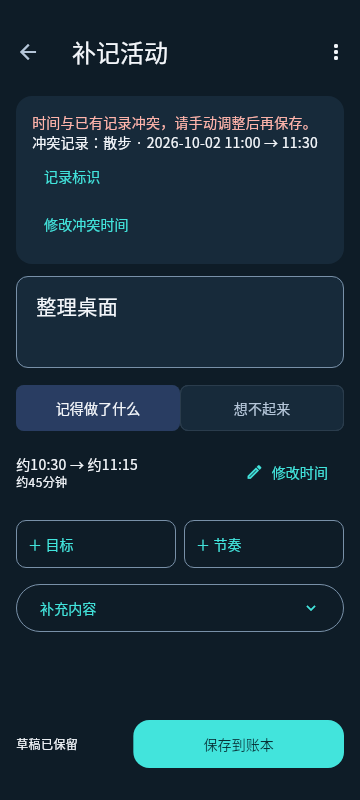
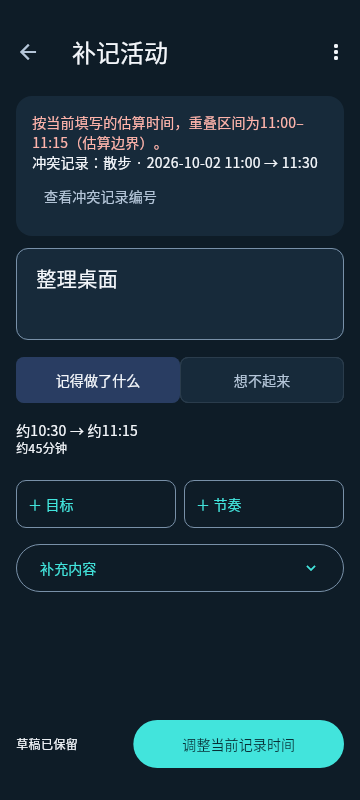
fix(ui): clarify V06 conflict recovery action and overlap

diff --git a/lib/features/ledger/presentation/recording_form.dart b/lib/features/ledger/presentation/recording_form.dart
@@ -622,12 +622,16 @@ class _RecordingFormState extends State<RecordingForm> {
                 ? '更正草稿已保留，原记录尚未改变。'
                 : '输入作为草稿保留，尚未计入账本。',
           ),
-        if (model.submitError != null)
+        if (model.submitError != null && model.conflicts.isEmpty)
           Text(
             model.submitError!,
             style: TextStyle(color: Theme.of(context).colorScheme.error),
           ),
         for (final conflict in model.conflicts) ...[
+          Text(
+            '按当前填写的${model.time.startPrecision == TimePrecision.approximate || model.time.endPrecision == TimePrecision.approximate ? '估算' : ''}时间，${_overlap(conflict)}',
+            style: TextStyle(color: Theme.of(context).colorScheme.error),
+          ),
           FutureBuilder<String>(
             key: ValueKey(conflict),
             future: conflictLabels.putIfAbsent(
@@ -642,7 +646,7 @@ class _RecordingFormState extends State<RecordingForm> {
             onPressed: () => showDialog<void>(
               context: context,
               builder: (context) => AlertDialog(
-                title: const Text('记录标识'),
+                title: const Text('冲突记录的技术编号'),
                 content: SelectableText('标识：${conflict.reference.id}'),
                 actions: [
                   TextButton(
@@ -652,22 +656,10 @@ class _RecordingFormState extends State<RecordingForm> {
                 ],
               ),
             ),
-            child: const Text('记录标识'),
-          ),
-          TextButton(
-            onPressed: model.editable
-                ? () async {
-                    setState(() => timeExpanded = true);
-                    await WidgetsBinding.instance.endOfFrame;
-                    if (mounted && timeKey.currentContext != null) {
-                      await Scrollable.ensureVisible(
-                        timeKey.currentContext!,
-                        alignment: .1,
-                      );
-                    }
-                  }
-                : null,
-            child: const Text('修改冲突时间'),
+            style: TextButton.styleFrom(
+              foregroundColor: Theme.of(context).colorScheme.onSurfaceVariant,
+            ),
+            child: const Text('查看冲突记录编号'),
           ),
         ],
         if (model.committed case final committed?) ...[
@@ -733,6 +725,42 @@ class _RecordingFormState extends State<RecordingForm> {
     return '${approximate ? '约' : ''}${minutes >= 60 ? '${minutes ~/ 60}小时' : ''}${minutes % 60 != 0 || minutes == 0 ? '${minutes % 60}分钟' : ''}';
   }
 
+  String _overlap(LedgerFactInterval conflict) {
+    final start = model.time.startedAt! > conflict.startedAt
+        ? model.time.startedAt!
+        : conflict.startedAt;
+    final end = model.time.endedAt! < conflict.endedAt
+        ? model.time.endedAt!
+        : conflict.endedAt;
+    final approximate =
+        model.time.startPrecision == TimePrecision.approximate ||
+        model.time.endPrecision == TimePrecision.approximate;
+    return '重叠区间为${_shortTime(start)}–${_shortTime(end)}${approximate ? '（估算边界）' : ''}。';
+  }
+
+  Future<void> _editCurrentTime() async {
+    FocusManager.instance.primaryFocus?.unfocus();
+    final result = await Navigator.of(context).push<EditorTimes>(
+      MaterialPageRoute(
+        builder: (_) => EditorTimePage(
+          date: widget.context.date,
+          initial: (
+            start: formatSleepTime(model.time.startedAt),
+            end: formatSleepTime(model.time.endedAt),
+            startPrecision: model.time.startPrecision,
+            endPrecision: model.time.endPrecision,
+          ),
+        ),
+      ),
+    );
+    if (!mounted || result == null) return;
+    model.setTime(
+      start: parseSleepTime(result.start),
+      end: parseSleepTime(result.end),
+    );
+    model.setPrecision(start: result.startPrecision, end: result.endPrecision);
+  }
+
   Widget _timeSection(BuildContext context) {
     final error = (showErrors || timeVisited) ? model.timeError : null;
     final expanded = timeExpanded || model.timeError != null;
@@ -758,7 +786,9 @@ class _RecordingFormState extends State<RecordingForm> {
                 ],
               ),
             ),
-            if (model.time.startedAt != null && model.time.endedAt != null)
+            if (model.conflicts.isEmpty &&
+                model.time.startedAt != null &&
+                model.time.endedAt != null)
               TextButton.icon(
                 key: const ValueKey('edit-recording-time'),
                 onPressed: model.editable
@@ -1068,7 +1098,12 @@ class _RecordingFormState extends State<RecordingForm> {
     ],
   );
 
-  Widget _saveAction() => model.committed == null
+  Widget _saveAction() => model.conflicts.isNotEmpty
+      ? FilledButton(
+          onPressed: model.editable ? _editCurrentTime : null,
+          child: const Text('调整当前记录时间'),
+        )
+      : model.committed == null
       ? FilledButton(
           key: const ValueKey('recording-submit'),
           style: FilledButton.styleFrom(

diff --git a/test/features/ledger/presentation/recording_form_layout_test.dart b/test/features/ledger/presentation/recording_form_layout_test.dart
@@ -451,11 +451,11 @@ void main() {
         await support.textTap(t, '保存到账本');
         expect(find.textContaining('冲突记录：睡眠'), findsOneWidget);
         expect(find.text('标识：${support.id(20)}'), findsNothing);
-        await support.textTap(t, '记录标识');
+        await support.textTap(t, '查看冲突记录编号');
         expect(find.text('标识：${support.id(20)}'), findsOneWidget);
         await support.textTap(t, '关闭');
         await capture(t, 'failure-conflict');
-        await support.textTap(t, '修改冲突时间');
+        await support.textTap(t, '调整当前记录时间');
         expect(find.text('开始时间'), findsOneWidget);
         expect(model(t).time.startPrecision, TimePrecision.approximate);
 

diff --git a/test/features/ledger/presentation/recording_form_test.dart b/test/features/ledger/presentation/recording_form_test.dart
@@ -347,9 +347,9 @@ void main() {
     await enterTime(tester, '开始时间', '2026-09-28 10:00');
     await enterTime(tester, '结束时间', '2026-09-28 11:00');
     await tap(tester, '保存到账本');
-    expect(find.text('时间与已有记录冲突，请手动调整后再保存。'), findsOneWidget);
+    expect(find.textContaining('重叠区间为'), findsOneWidget);
     expect(find.textContaining(sleepId), findsNothing);
-    await tester.tap(find.text('记录标识'));
+    await tester.tap(find.text('查看冲突记录编号'));
     await tester.pumpAndSettle();
     expect(find.textContaining(sleepId), findsOneWidget);
     await tester.tap(find.text('关闭'));

diff --git a/test/features/ledger/presentation/recording_rhythm_test.dart b/test/features/ledger/presentation/recording_rhythm_test.dart
@@ -628,8 +628,9 @@ void main() {
       await textTap(t, '确认');
       await textTap(t, '应用时间');
       await textTap(t, '保存更正');
-      expect(find.text('时间与已有记录冲突，请手动调整后再保存。'), findsOneWidget);
+      expect(find.textContaining('重叠区间为'), findsOneWidget);
       expect(await t.runAsync(f.snapshot), before);
+      await textTap(t, '调整当前记录时间');
       await textTap(t, '结束时间');
       await enter(t, 'time-dialog-input', '2026-10-01 11:00');
       await textTap(t, '确认');

diff --git a/test/app/page_t01_visual_fixture_test.dart b/test/app/page_t01_visual_fixture_test.dart
@@ -193,7 +193,10 @@ void main() {
     t.testTextInput.hide();
     await settle(t);
     await capture(t, 'V06');
-    await tap(t, '修改时间');
+    expect(find.text('保存到账本'), findsNothing);
+    expect(find.text('修改时间'), findsNothing);
+    expect(find.textContaining('11:00–11:15'), findsOneWidget);
+    await tap(t, '调整当前记录时间');
     await tap(t, '手动输入日期与时间');
     await t.ensureVisible(find.byKey(const ValueKey('time-end')));
     await t.enterText(

diff --git a/docs/reports/PAGE_T02_REPORT.md b/docs/reports/PAGE_T02_REPORT.md
@@ -1,5 +1,11 @@
 # PAGE-T02 · 活动编辑返工
 
+## V06用户反馈修订
+
+后续用户提供交互评审并授权吸纳。冲突时底部主动作改为“调整当前记录时间”，不再显示可提交的保存按钮；顶部与时间摘要的重复调整入口移除。统一进入双端时间层，取消保留冲突，应用后重新允许正式校验。冲突提示直接给出交集区间，近似输入明确为“按当前填写的估算时间”和“估算边界”，不改原子拒绝合同、不提供强制覆盖。“记录标识”改为低强调的“查看冲突记录编号”，详情明确技术编号用途。V06截图已更新，下文旧差异描述属于首轮记录。
+
+修订验证：夹具、布局、表单与节奏共48项在最终对应运行中通过（初次运行46通过、2条旧文案断言失败，迁移后分别复跑；节奏旧时间入口亦改为明确调整入口）。新增断言验证冲突态没有保存/重复修改入口、交集11:00–11:15可读，真实调整后保存仍成功。flutter analyze无问题。状态仍待视觉确认，既存应用级失败状态不变。
+
 2026-10-04。状态：实现及专项验证已交付，**待用户视觉审阅；应用级基线8项失败，整项未标完成**。
 
 ## 实现
